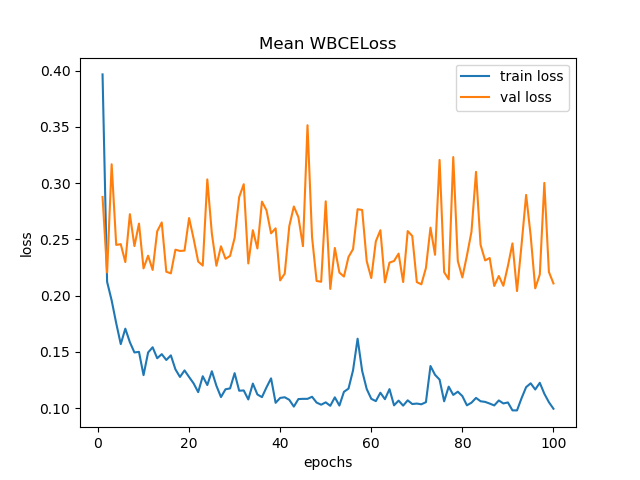
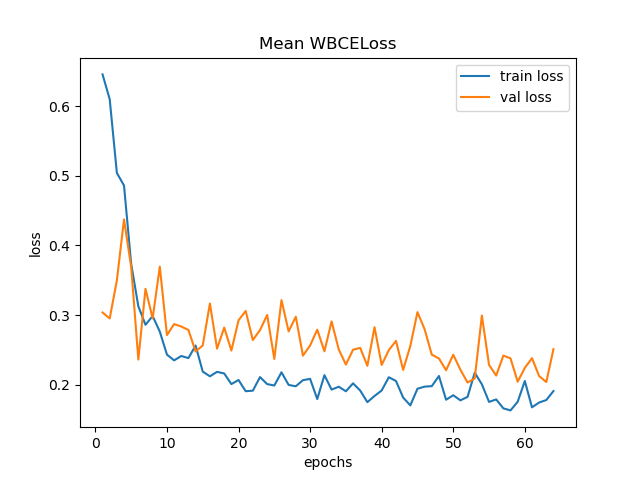
gray modelもcolor modelも全画像を使えるようにした

diff --git a/main/utils/load.py b/main/utils/load.py
@@ -22,14 +22,18 @@ def split_ids(ids, n=2):
     return [(id, i) for i in range(n) for id in ids]
 
 
-def to_resized_imgs(ids, dir, suffix, size):
+def to_resized_imgs(ids, dir, suffix, size, drop_alpha=True):
     """From a list of tuples, returns the resized img"""
     original_sizes = []
     for id in ids:
         im = Image.open(dir + id + suffix)
         original_sizes.append(im.size)
         im = im.resize(size) #ここでリサイズする
-        yield np.asarray(im)
+        if drop_alpha:
+            yield np.asarray(im)[:, :, :3] #alpha channelを落とす
+        else:
+            yield np.asarray(im)
+
 
 def get_original_sizes(ids, dir, suffix):
     original_sizes = []
@@ -38,12 +42,13 @@ def get_original_sizes(ids, dir, suffix):
         original_sizes.append(im.size)
     return original_sizes
 
+
 def get_imgs_and_masks(ids, dir_img, dir_mask, dir_edge, size):
     """Return all the couples (img, mask)"""
     imgs = to_resized_imgs(ids, dir_img, '.png', size)
     # need to transform from HWC to CHW
     imgs_switched = map(partial(np.transpose, axes=[2, 0, 1]), imgs)
     imgs_normalized = map(normalize, imgs_switched)
-    masks = to_resized_imgs(ids, dir_mask, '.png', size)
-    edges = to_resized_imgs(ids, dir_edge, '.png', size)
+    masks = to_resized_imgs(ids, dir_mask, '.png', size, drop_alpha=False)
+    edges = to_resized_imgs(ids, dir_edge, '.png', size, drop_alpha=False)
     return zip(imgs_normalized, masks, edges)

diff --git a/main/train.py b/main/train.py
@@ -26,8 +26,8 @@ from validation import validate
 SIZE = (640, 640)
 
 def train_net(net, data, save, save_val, epochs=5, batch_size=2, val_batch_size=1, lr=0.1, val_percent=0.05, cp=True, gpu=False, calc_score=True):
-    dir_img = data + '2/images/'
-    #dir_img = data + '_gray/images/'
+    #dir_img = data + '2/images/'
+    dir_img = data + '_gray/images/'
     #dir_img = data + '_color/images/'
     dir_mask = data + '/masks/'
     dir_edge = data + '/edges/'
@@ -74,7 +74,9 @@ def train_net(net, data, save, save_val, epochs=5, batch_size=2, val_batch_size=
 
         # training phase
         for i, b in enumerate(utils.batch(train, batch_size)):
-            X = np.array([j[0] for j in b])[:, :3, :, :] # alpha channelを取り除く
+            #X = np.array([j[0] for j in b])[:, :3, :, :] # alpha channelを取り除く
+            X = np.array([j[0] for j in b])
+            #pdb.set_trace()
             y = np.array([j[1] for j in b])
             w = np.array([j[2] for j in b])
 
@@ -167,9 +169,9 @@ def train_net(net, data, save, save_val, epochs=5, batch_size=2, val_batch_size=
         else:
             validation_score_list.append(0.0)
 
-        if cp:
+        if cp and (epoch + 1) % 10 == 0:
             torch.save(net.state_dict(),
-                       dir_save + '2-CP{}.pth'.format(epoch+1))
+                       dir_save + 'gray_CP{}.pth'.format(epoch+1))
 
             print('Checkpoint {} saved !'.format(epoch+1))
 
